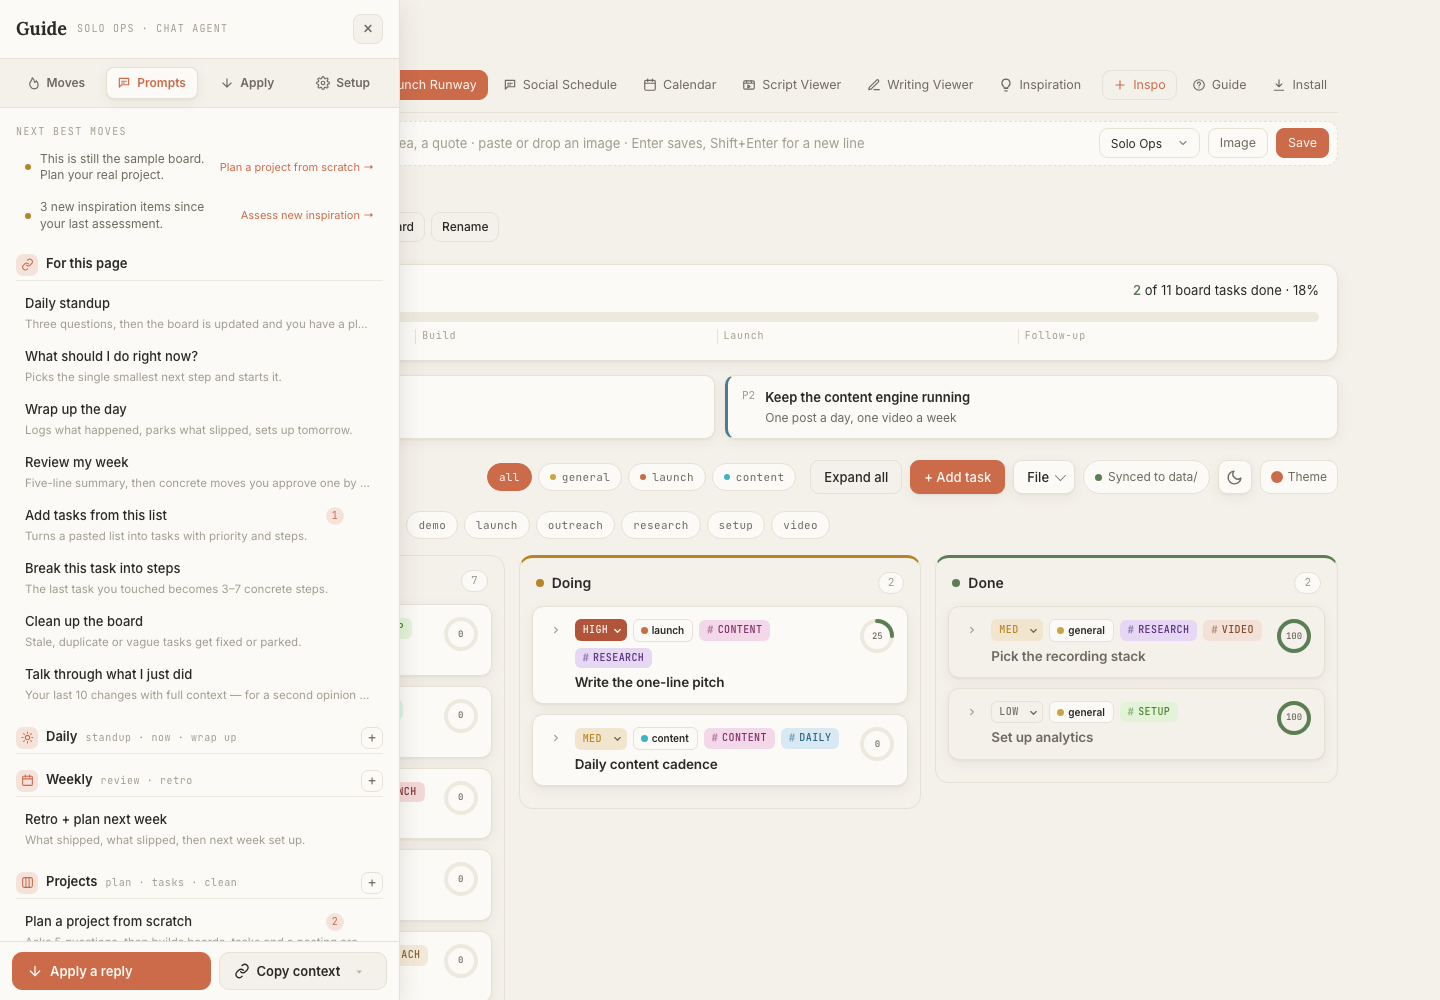
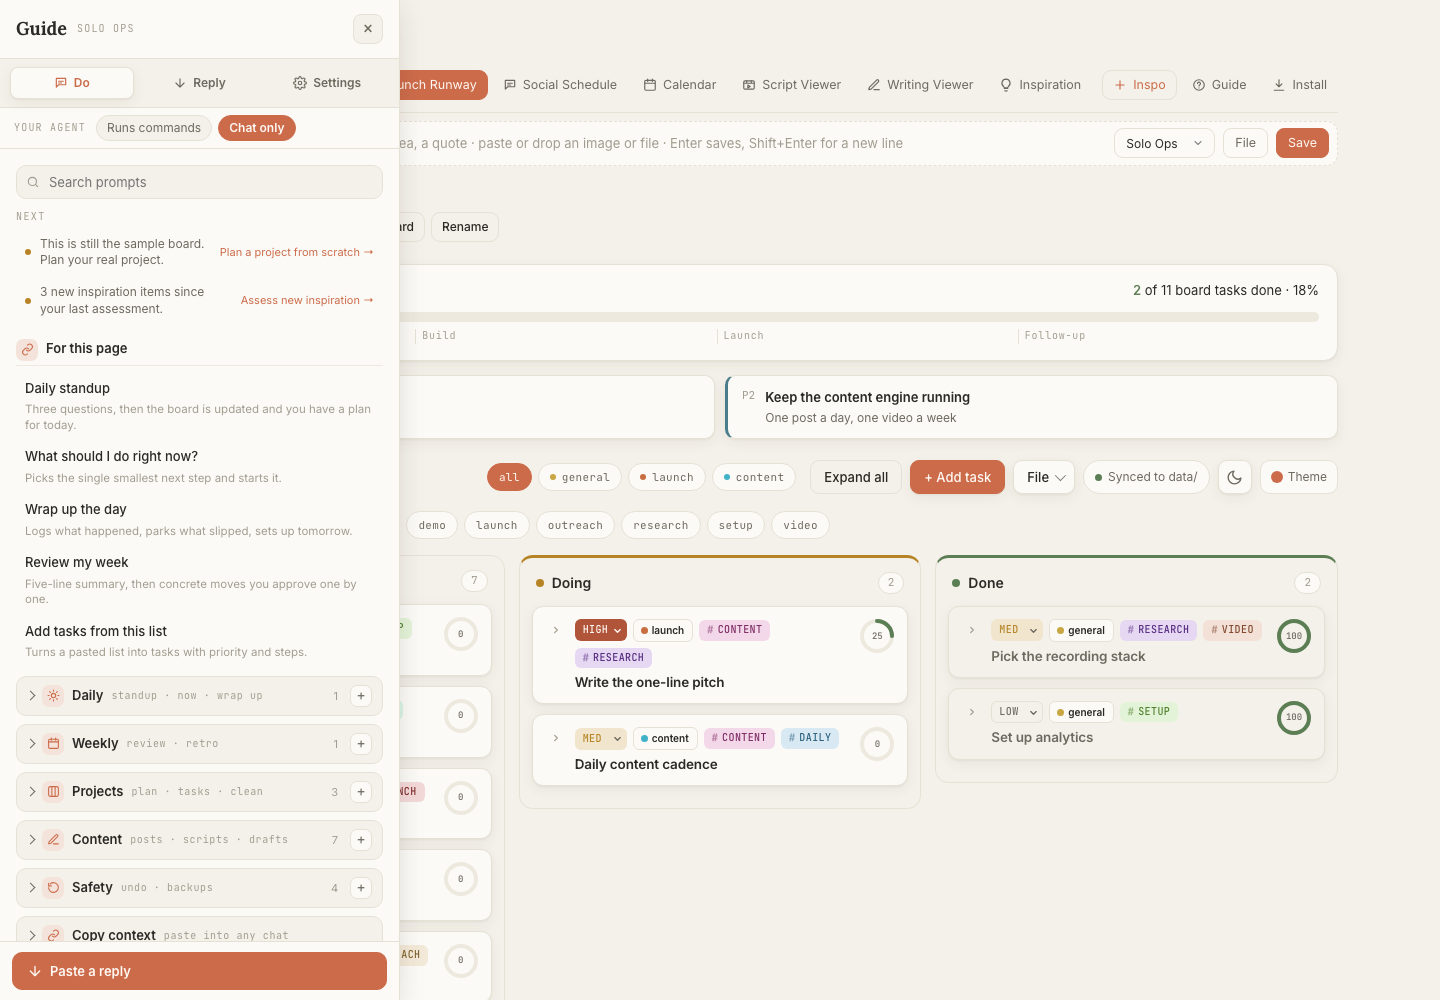
README: Guide screenshot for the new Do tab; NEXT.md Done entry gets its hash

diff --git a/NEXT.md b/NEXT.md
@@ -93,7 +93,7 @@ QR rendered without a dependency, capture strip and boards usable at
 
 ## Done
 
-- 2026-10-10 · Guide redesigned by intent (was M2): Do · Reply · Settings,
+- 2026-10-10 · `777d996` Guide redesigned by intent (was M2): Do · Reply · Settings,
   search, visible agent switch, groups collapsed, Reply status line, Settings
   with details folded away.
 
